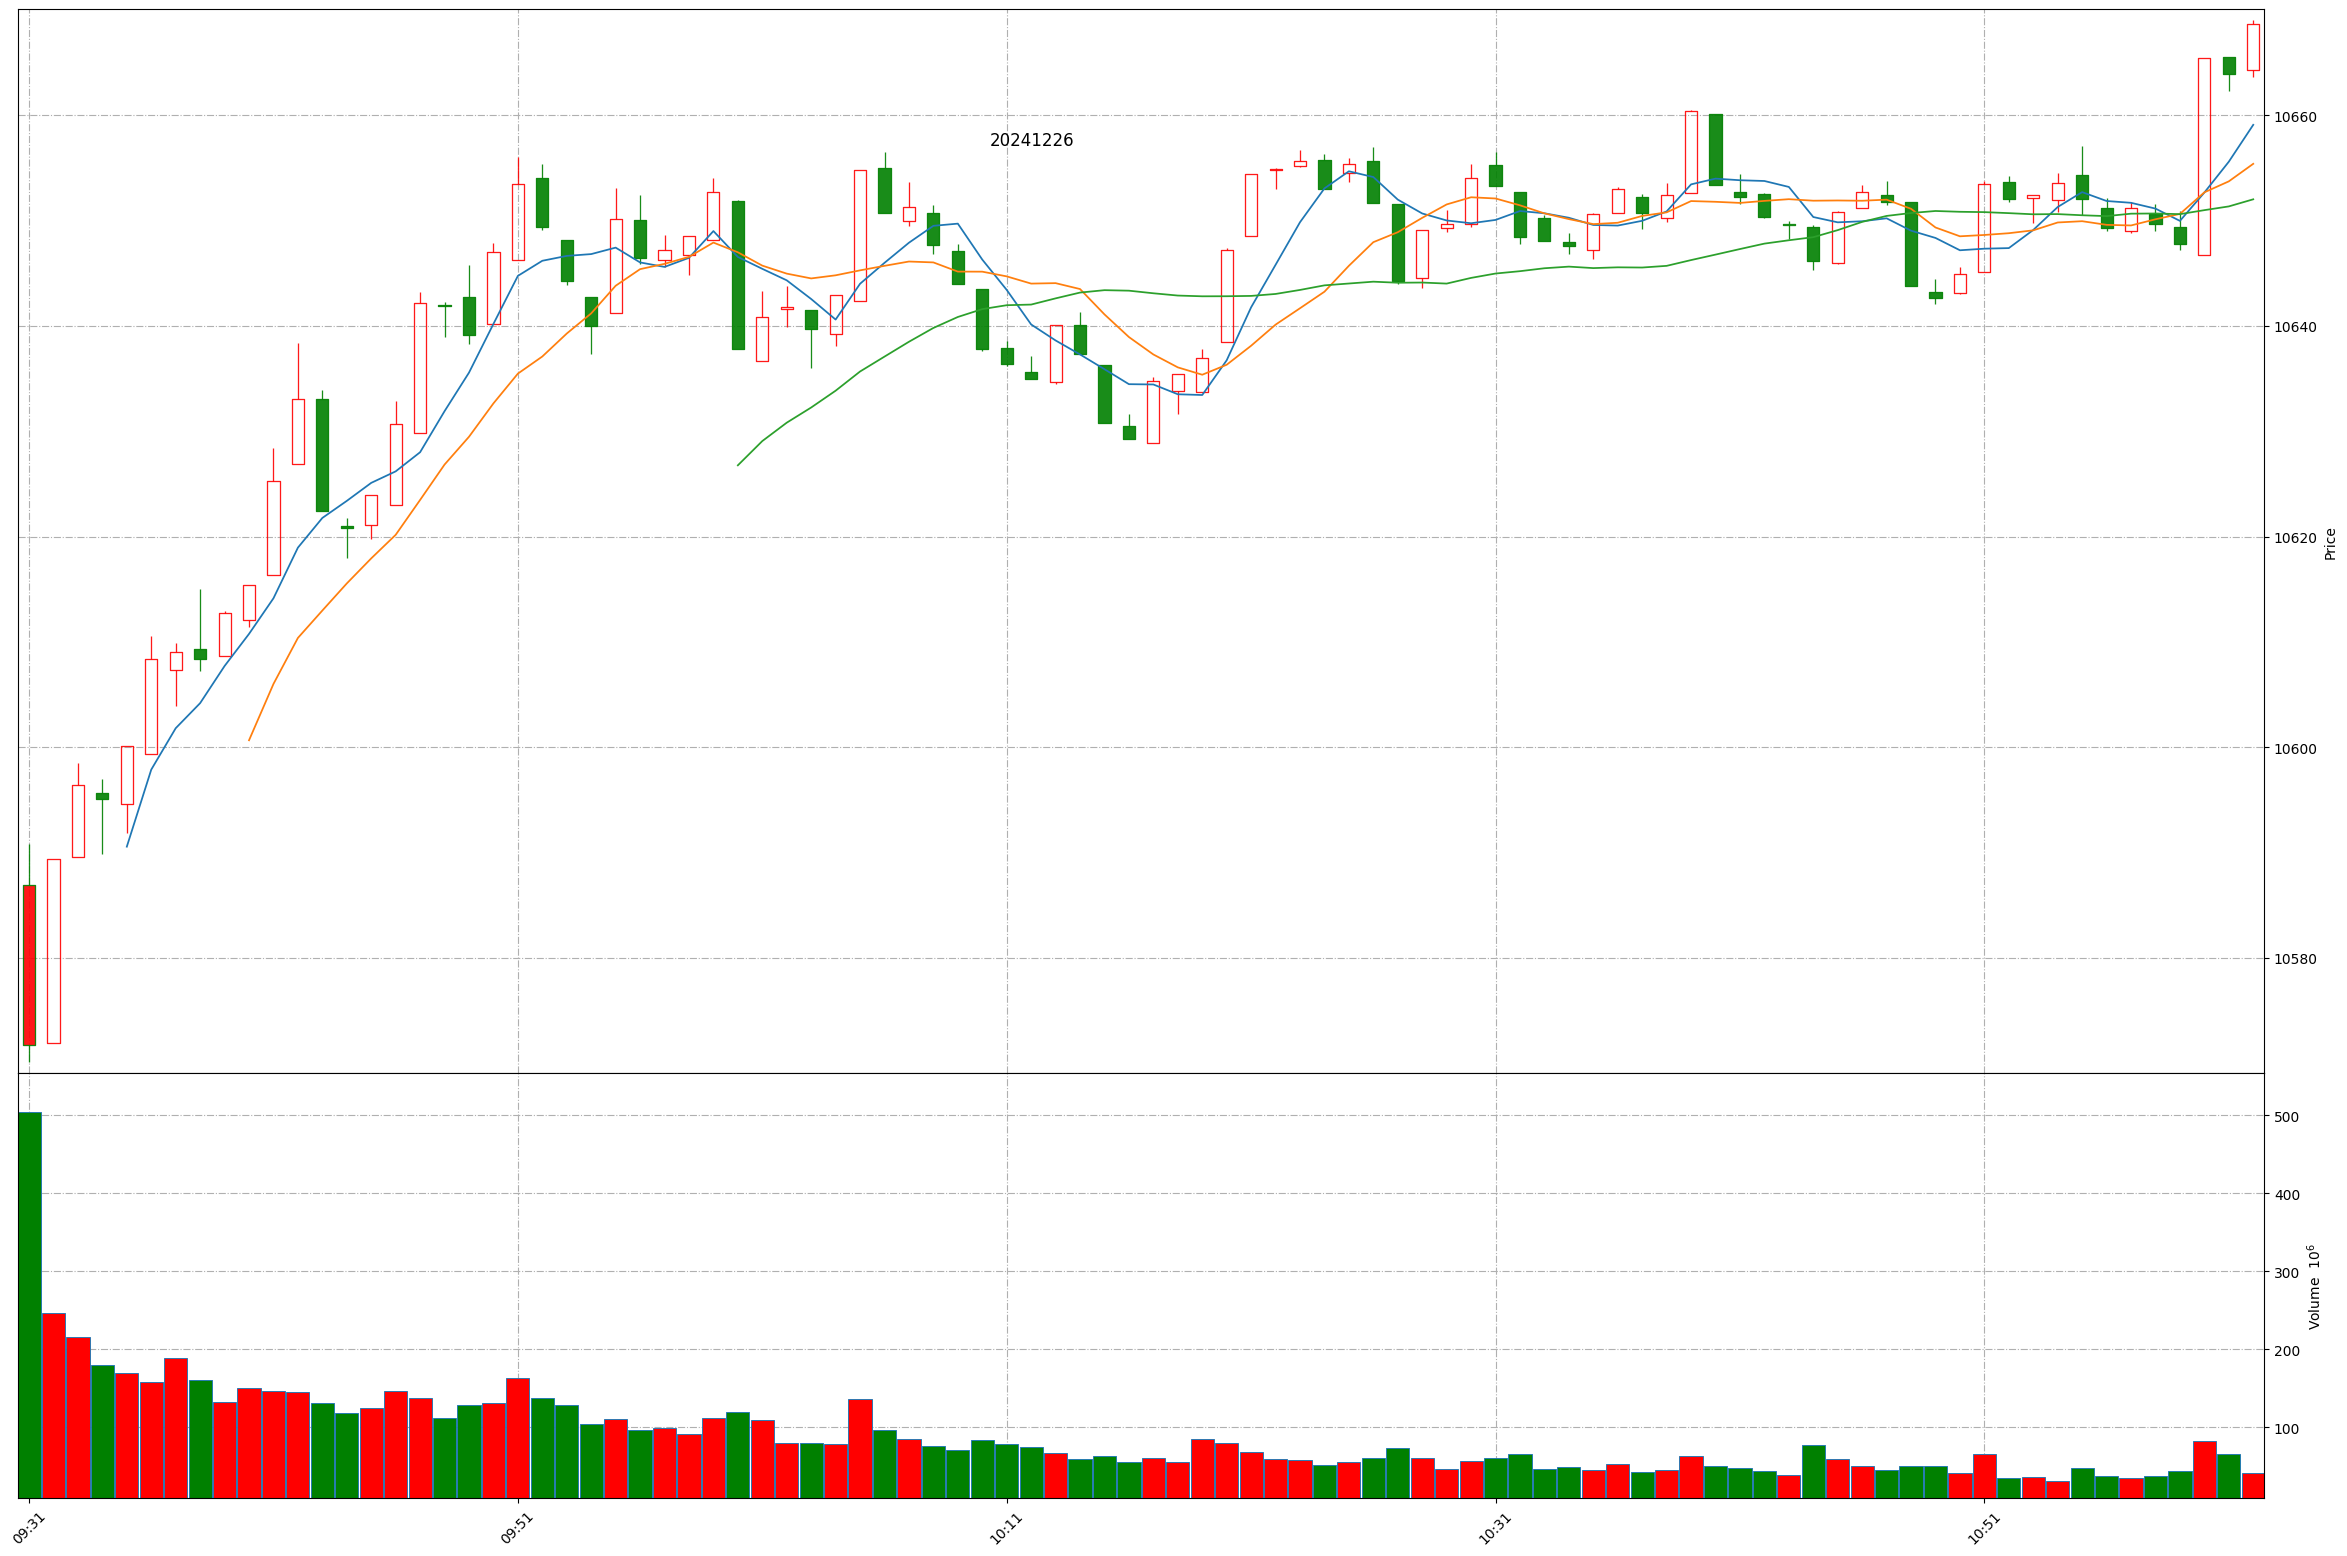
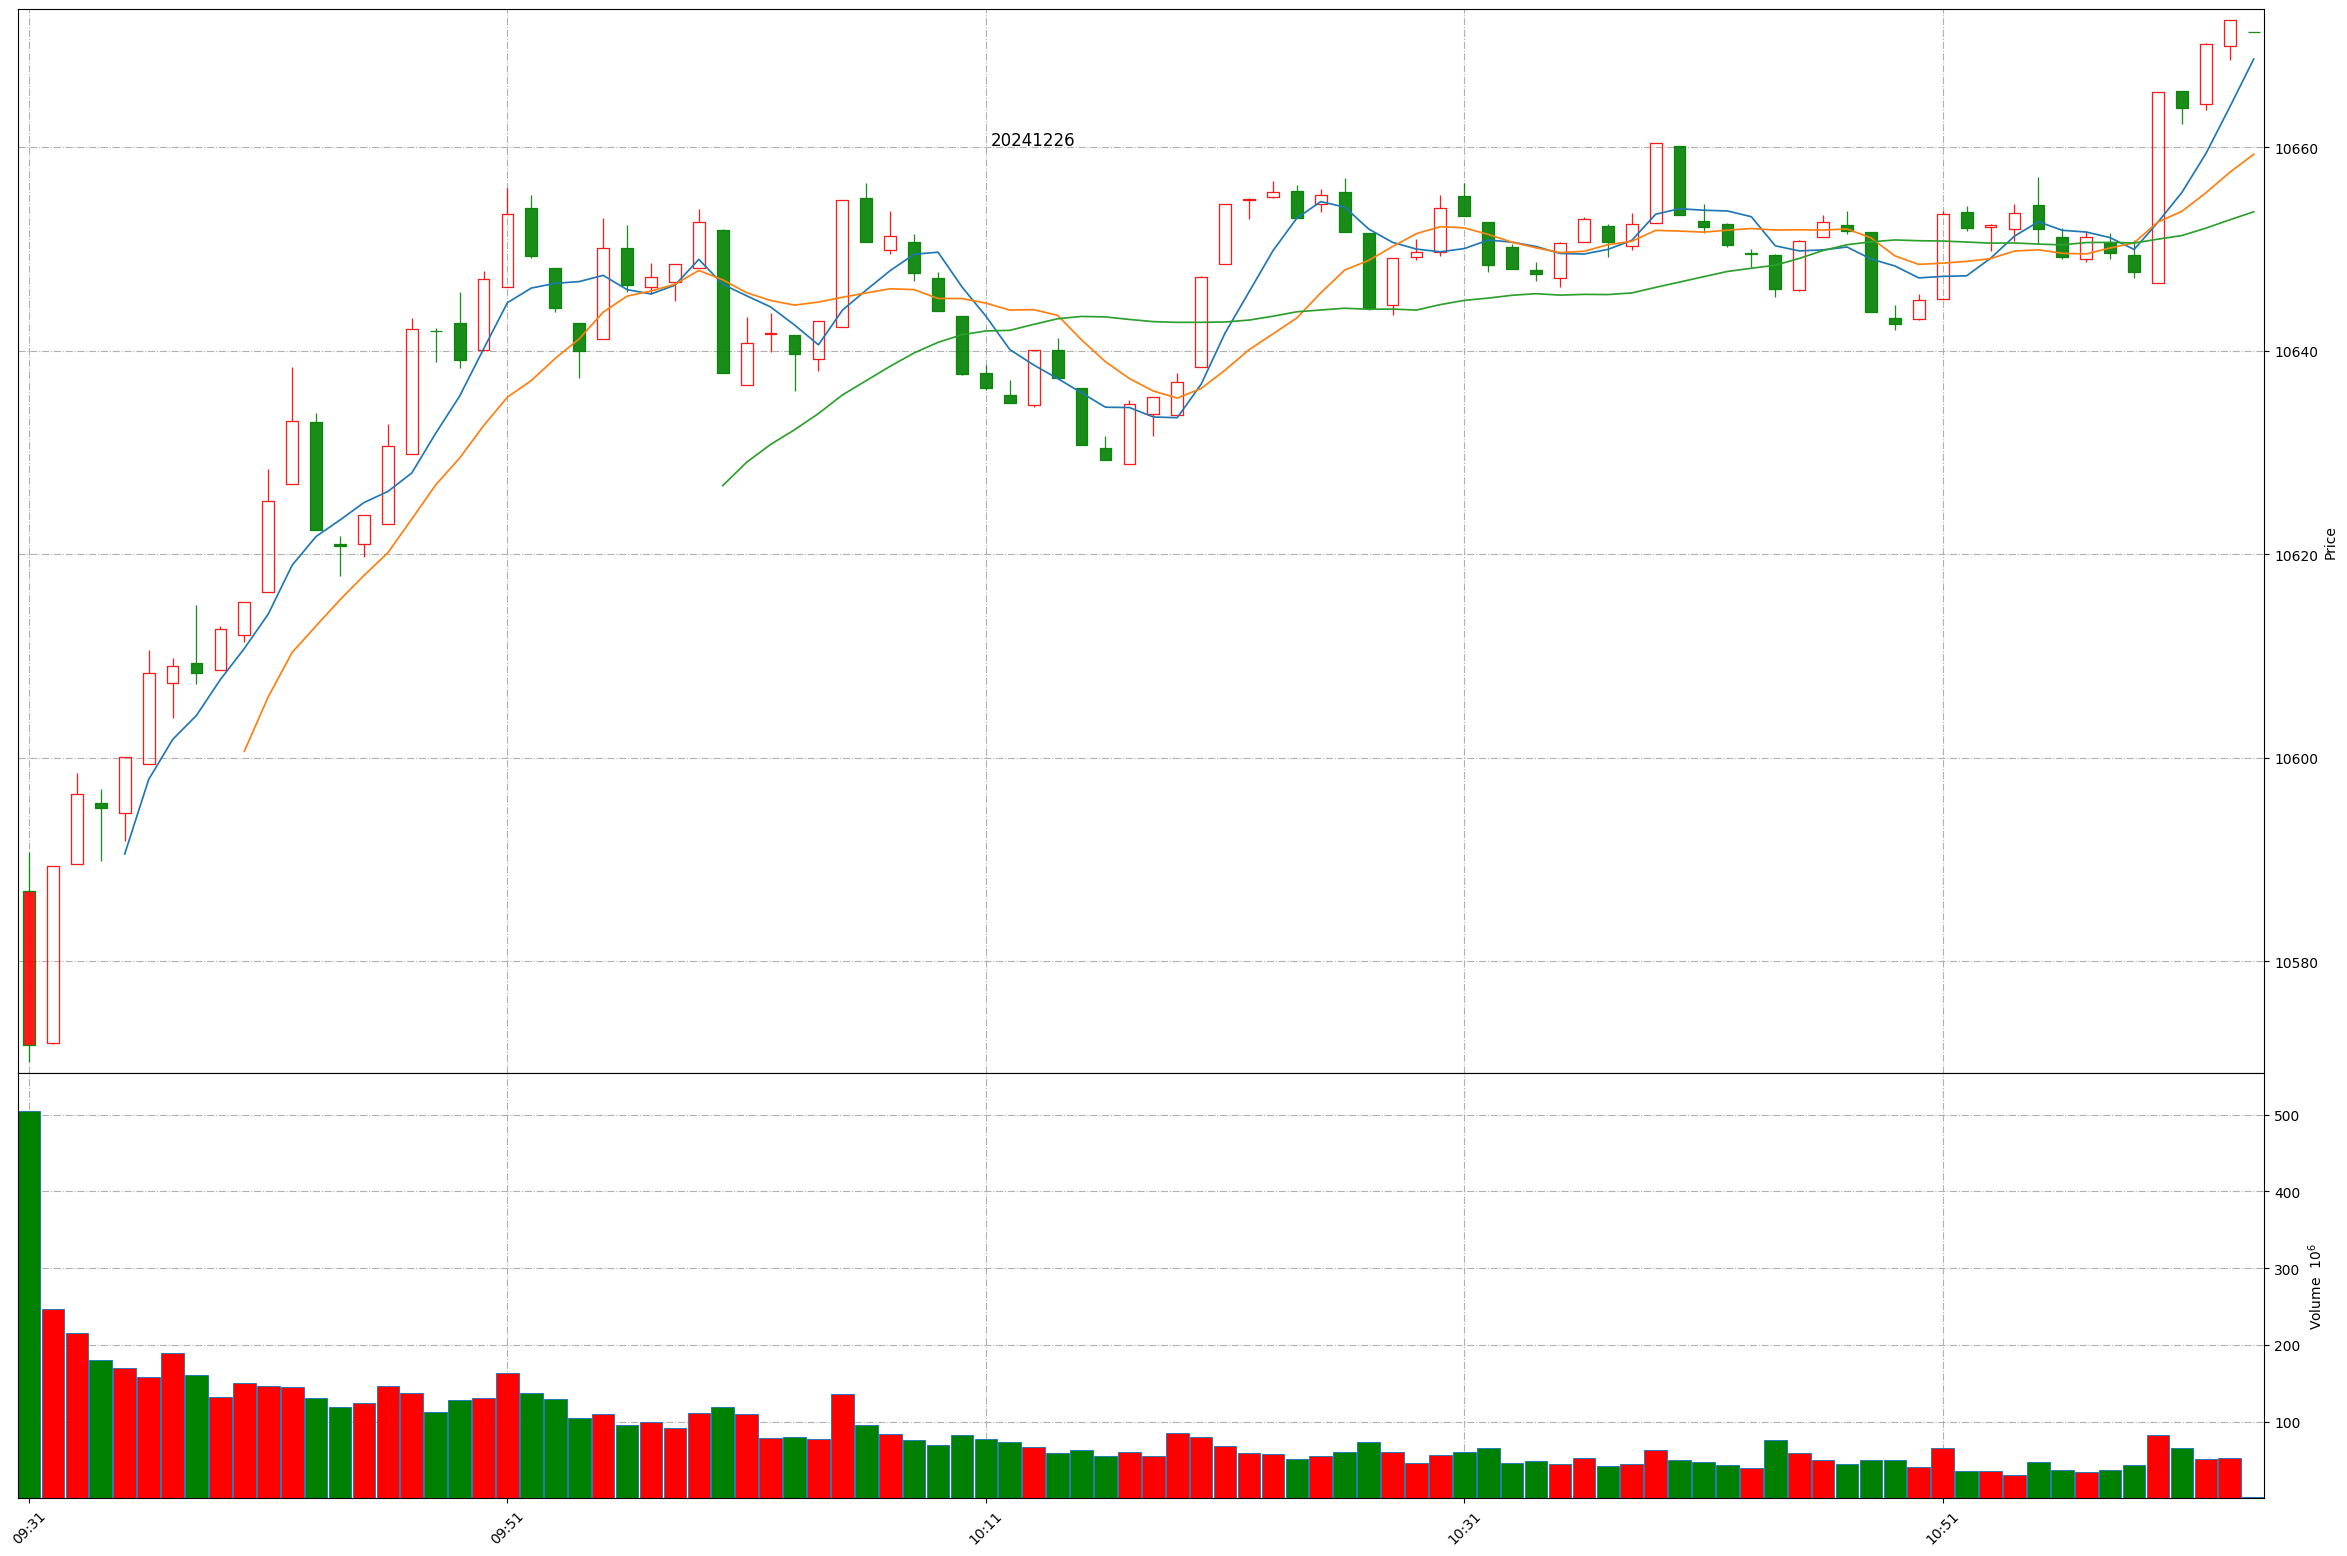
Github action update at 2024-12-26 11:03:16.

diff --git a/README.md b/README.md
@@ -1,11 +1,11 @@
 
 # Daily-A-share-market-quotes 每日 A 股指数（5min 更新）- 20241226
 
-### 上证指数 20241226 11:2
+### 上证指数 20241226 11:3
 ![](./fig/2024/12/20241226-sh000001.png)
 
-### 深证成指 20241226 11:2
+### 深证成指 20241226 11:3
 ![](./fig/2024/12/20241226-sz399001.png)
 
-### 北证50 20241226 11:2
+### 北证50 20241226 11:3
 ![](./fig/2024/12/20241226-bj899050.png)
